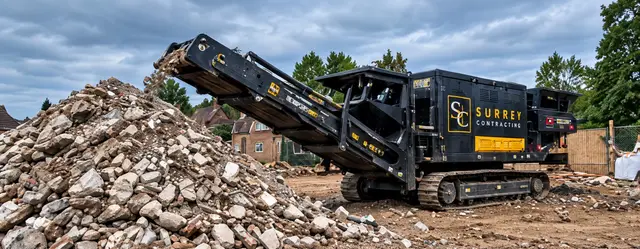
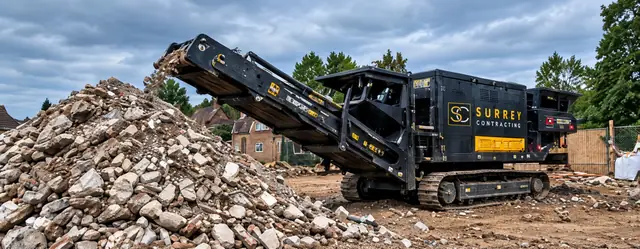
Correct SC monograms on Demolition excavator and crusher images
Replace the garbled monograms on demolition-excavator-skip and
demolition-crushing-recycling (-1280 and -640) with the brand mark,
composited from SVG. Nothing else in the images changed; dimensions
are unchanged, so servicePages.ts needs no edit.

Claude-Session: https://claude.ai/code/session_01EGW5qQRM2WPSYT4cUQ4kK2

Changed region(s): [[0.6875, 0.3655, 0.75, 0.5341], [0.5625, 0.9277, 0.5938, 0.9558]]

diff --git a/tasks/todo.md b/tasks/todo.md
@@ -2102,3 +2102,6 @@ redirects; no /lp/* changes.
 
 ## H&S project planning image, corrected hard-hat logo (15 Oct 2026)
 - [x] health-safety-planning-cdm (-1280 + -640, no full-size file) replaced with the reviewed v4 helmet correction. Same scene (corr 0.9846), dimensions unchanged (1280x633 / 640x317), servicePages.ts untouched; q72 LANCZOS, metadata stripped
+
+## Demolition excavator and crusher images, SC monogram fix (15 Oct 2026)
+- [x] demolition-excavator-skip and demolition-crushing-recycling (-1280 + -640 each, no full-size file or other variant) replaced with the reviewed fixes: garbled monograms replaced with the brand mark by SVG compositing, nothing else changed. Dimensions unchanged (1280x517 / 640x259, 1280x499 / 640x249), servicePages.ts untouched. Also used on /lp/demolition and /lp/demolition-2
